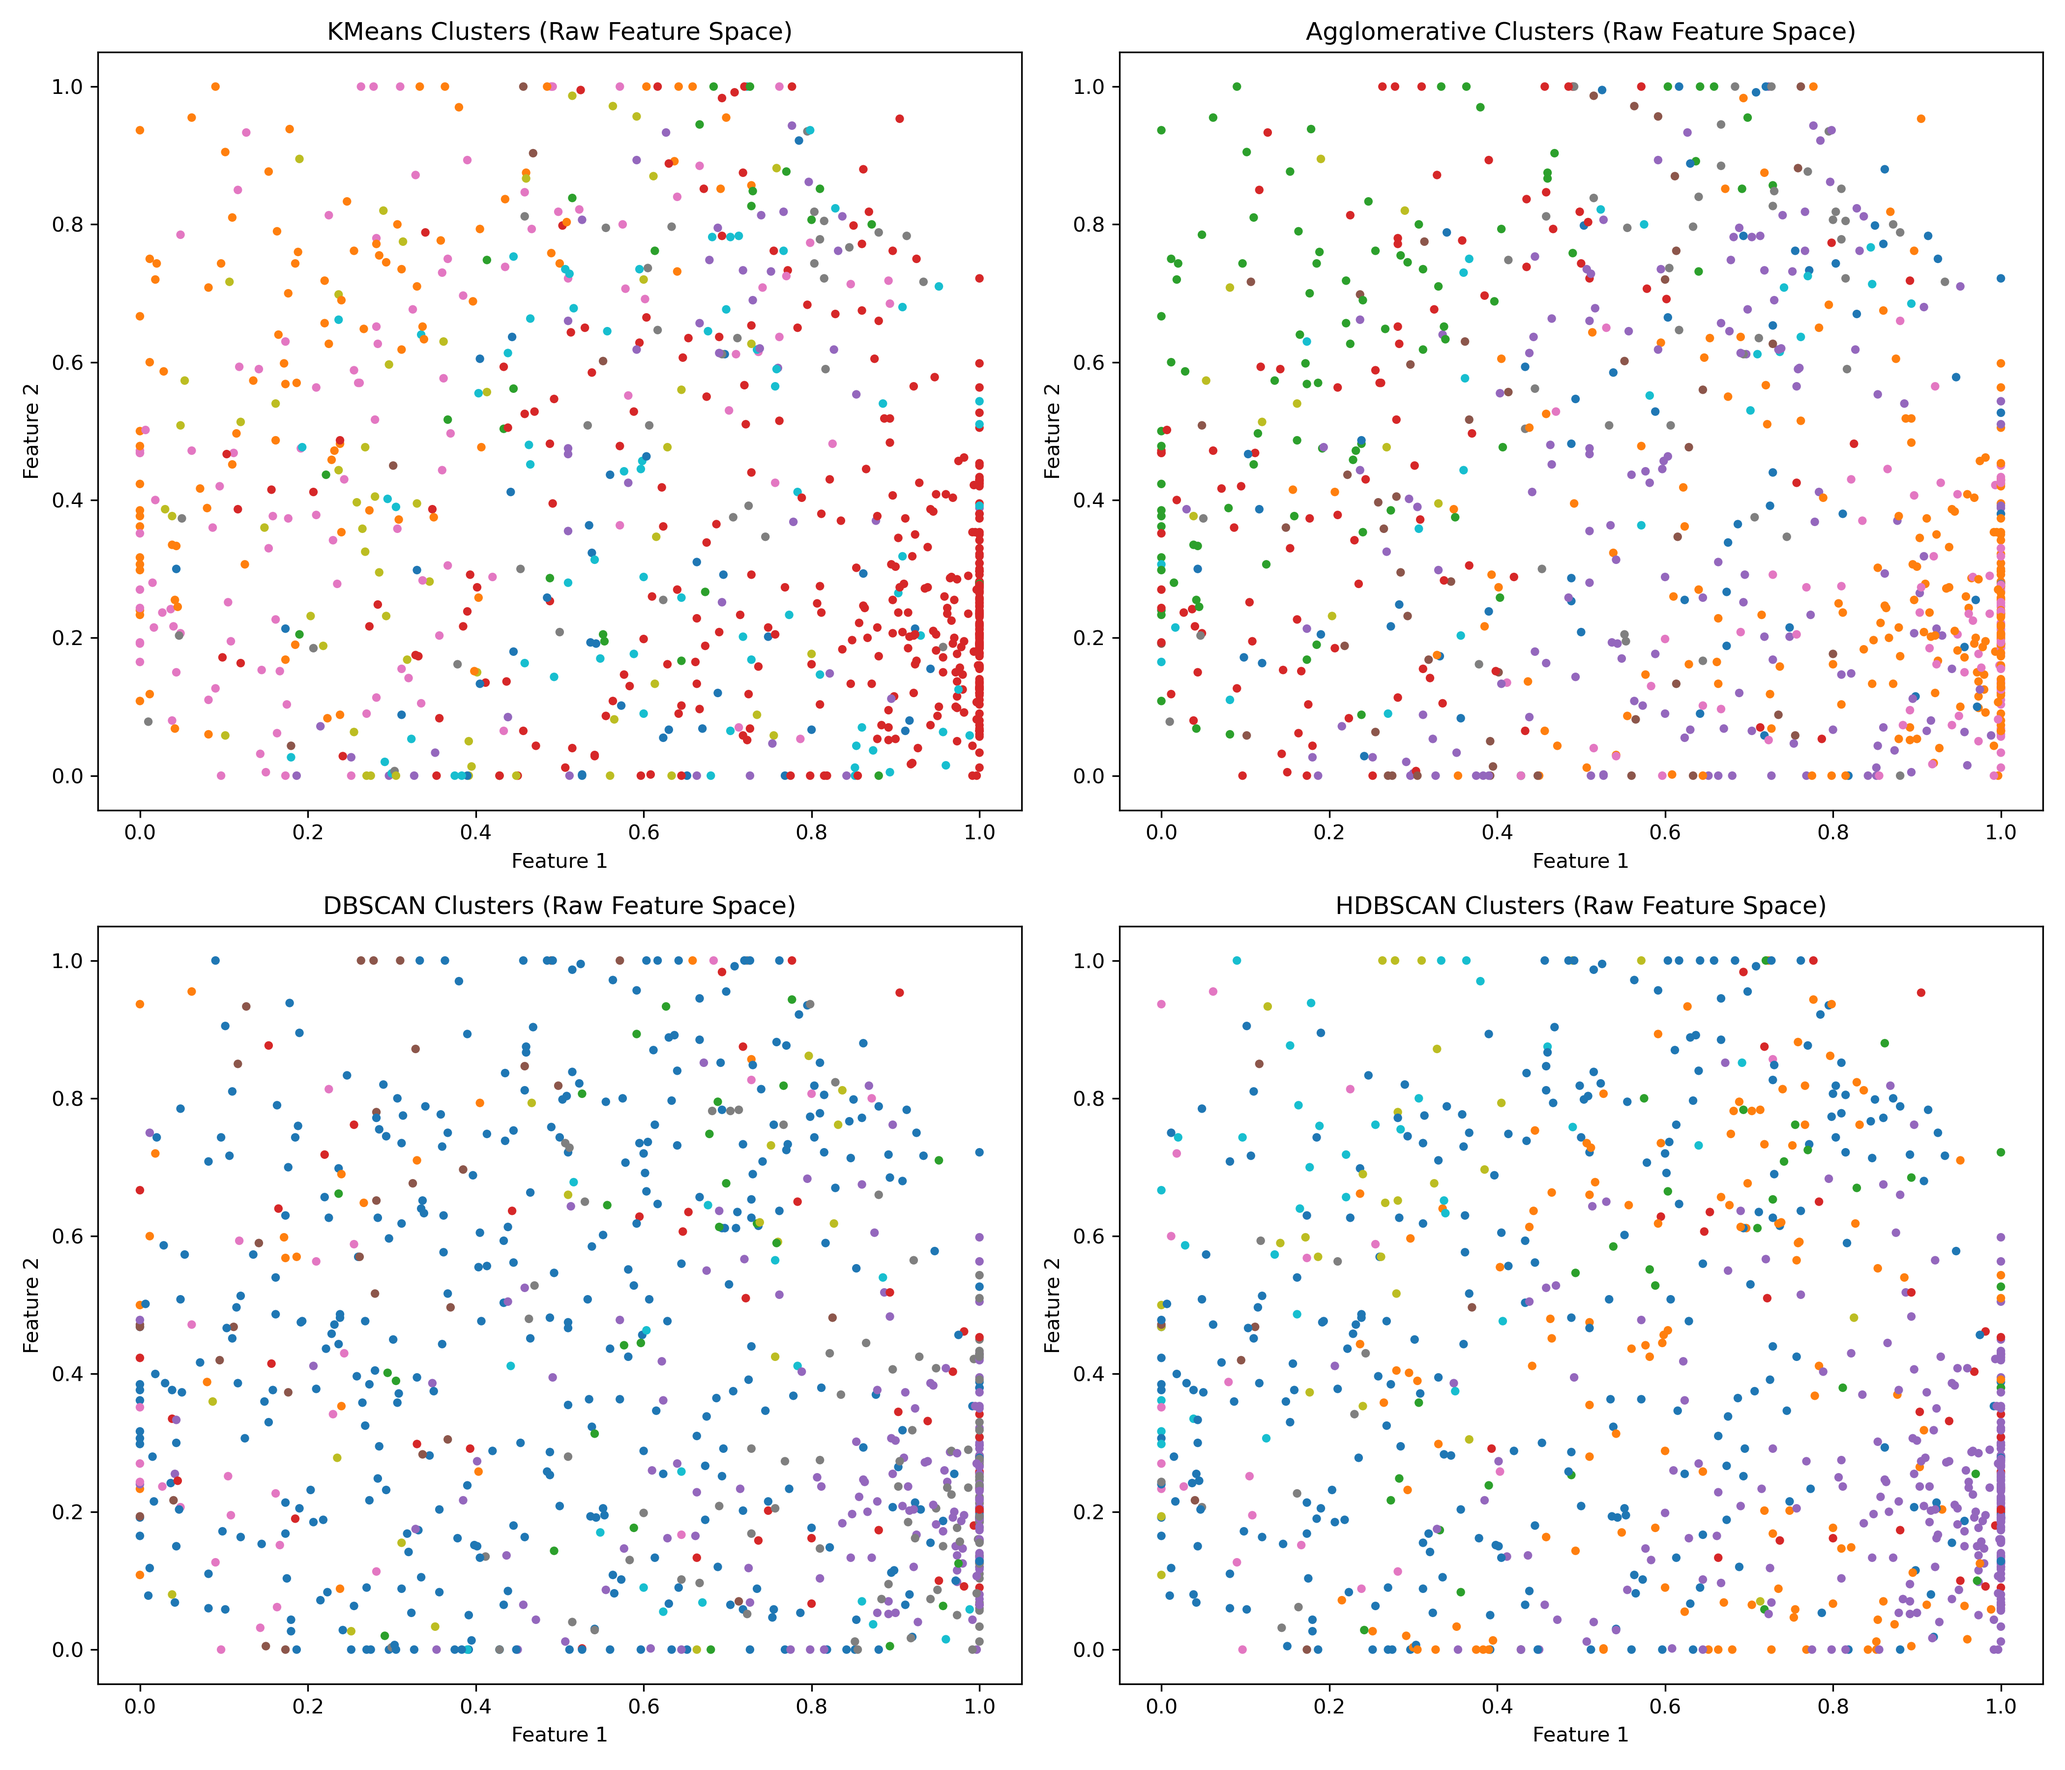
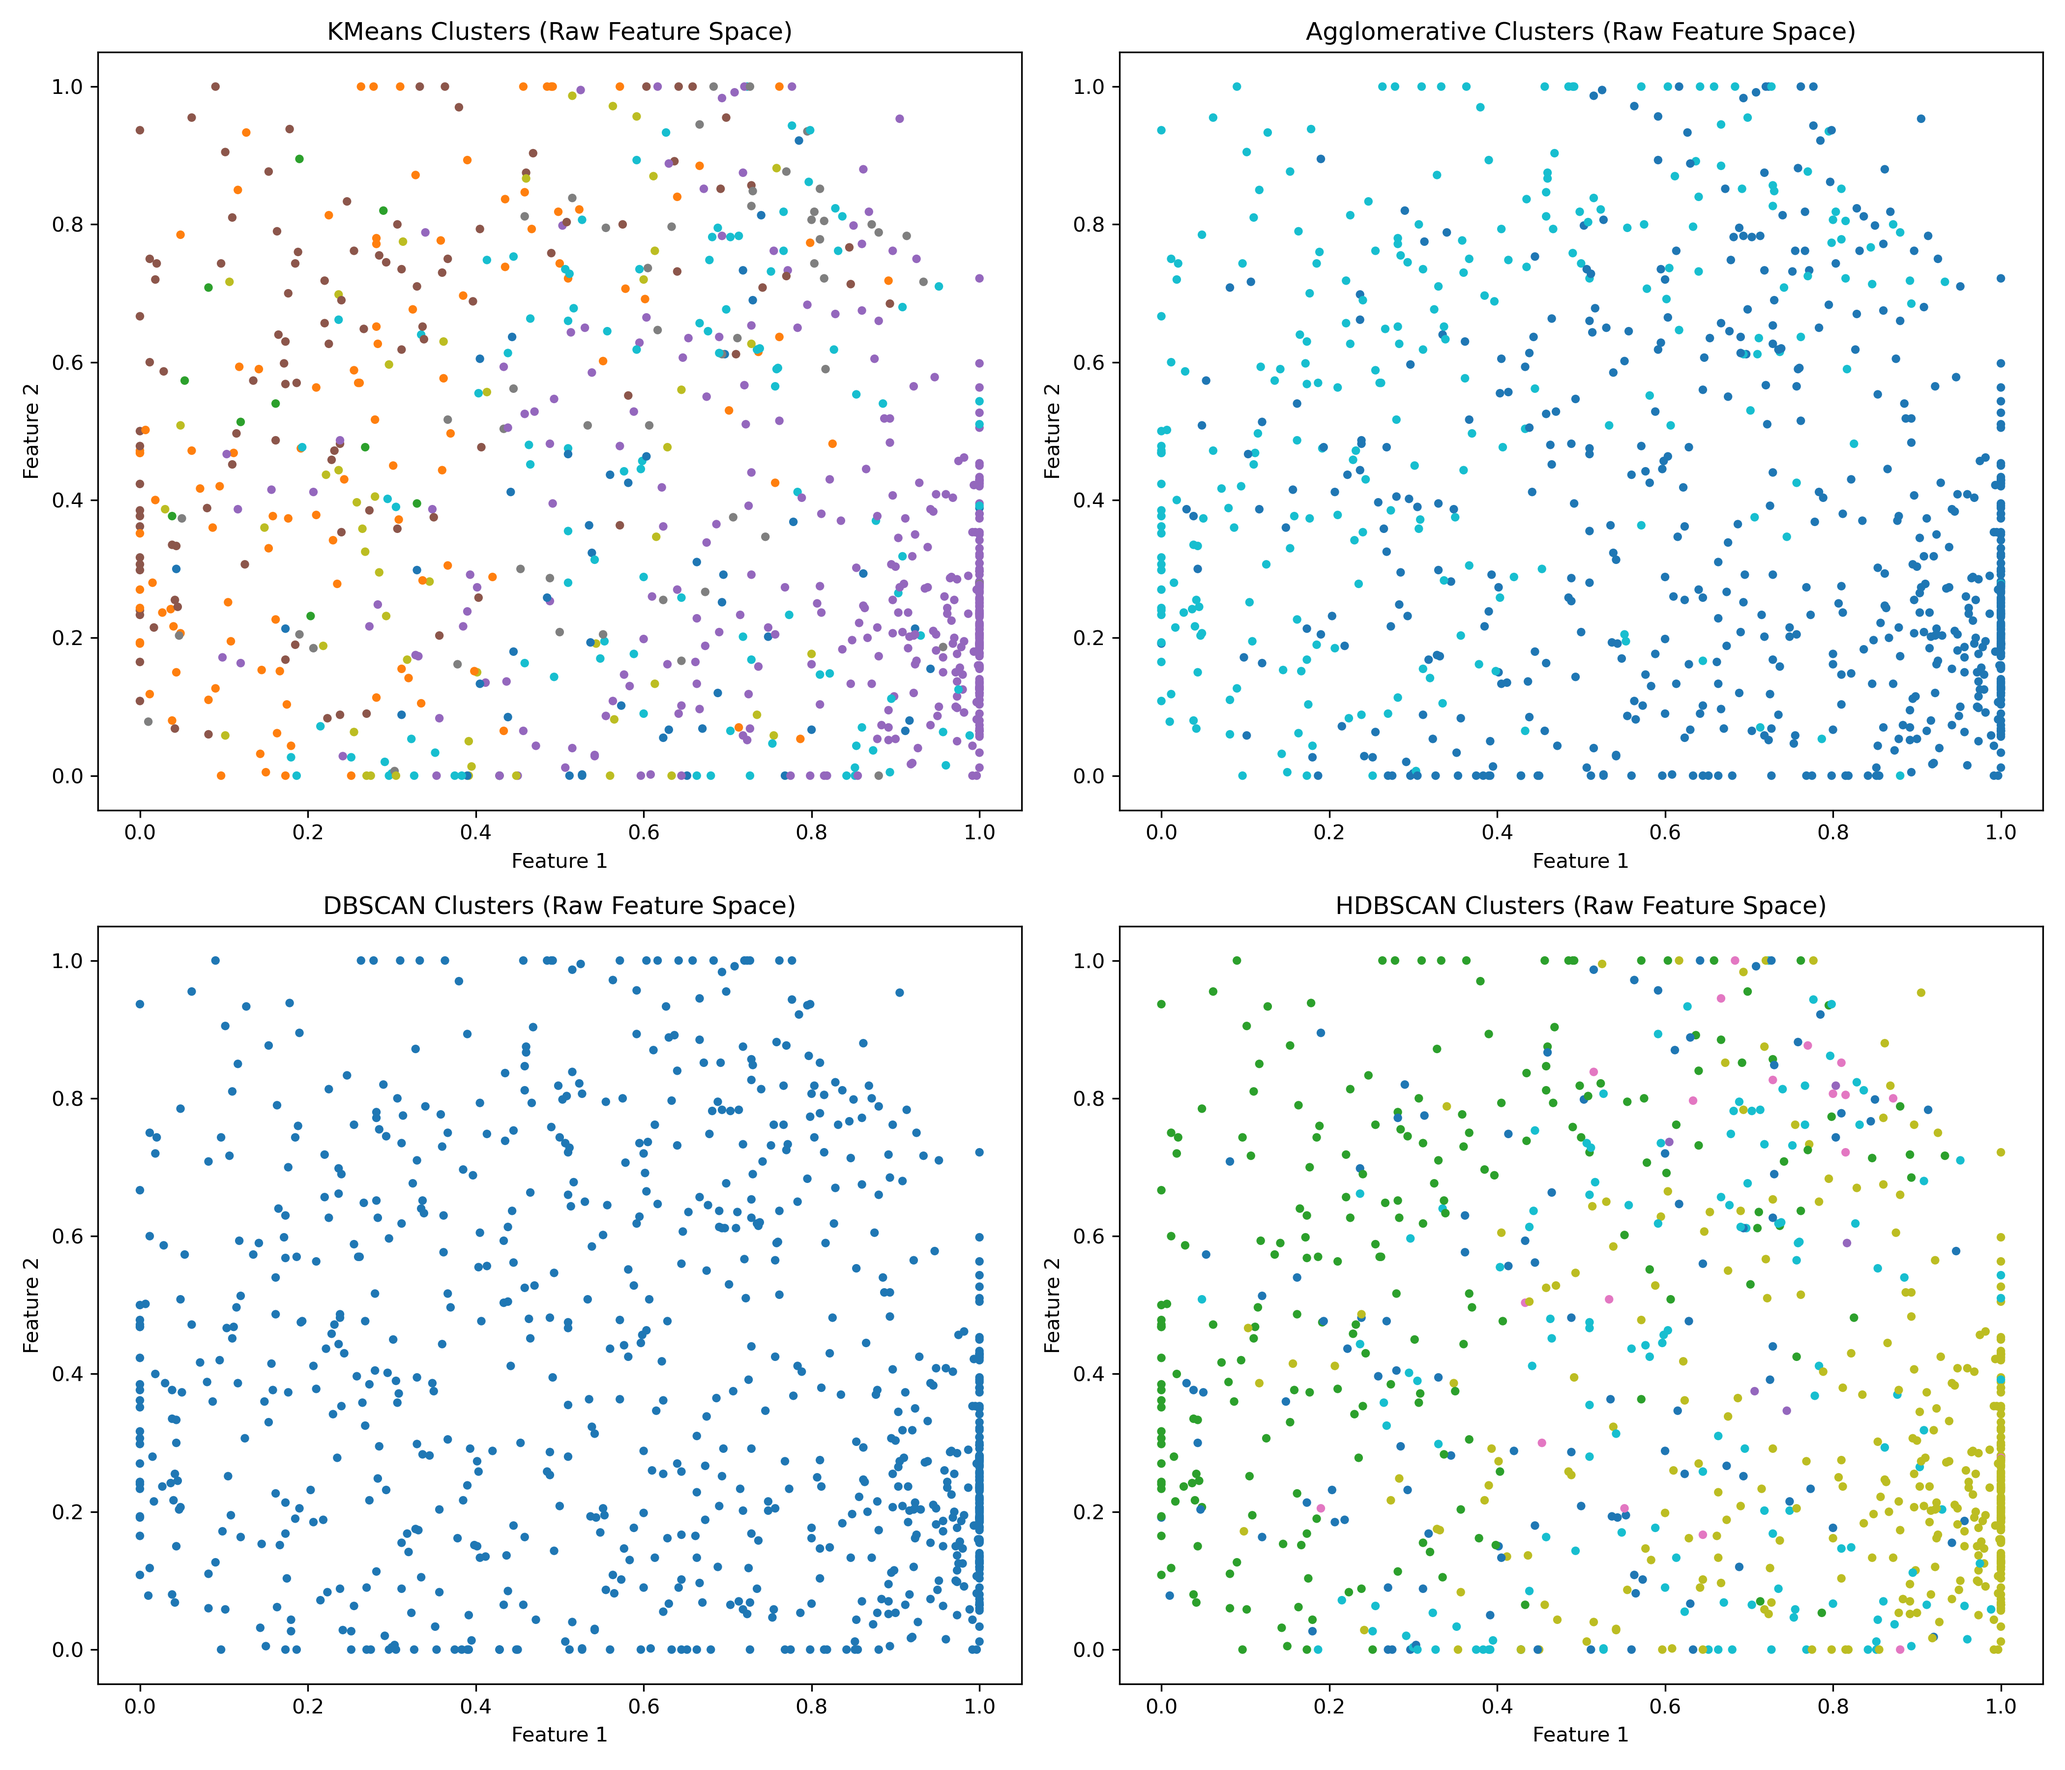
Evaluation and markups

diff --git a/recommender.py b/recommender.py
@@ -1,15 +1,16 @@
 import numpy as np
 import pandas as pd
 from sklearn.metrics.pairwise import cosine_similarity
-from sklearn.cluster import KMeans
-from sklearn.decomposition import TruncatedSVD
 
-job_profiles_and_abilities = pd.read_csv('data/job_profiles_and_abilities.csv')
+
+
 job_profiles_with_skills = pd.read_csv('data/job_profiles_with_skills.csv')
 
 
-def recommend_jobs(user_profile, job_profiles_and_abilities=job_profiles_and_abilities, top_n=5):
-  
+def recommend_jobs(user_profile, job_profiles_and_abilities, top_n=5):
+
+    job_profiles_and_abilities = pd.read_csv('data/job_profiles_and_abilities.csv')
+    
     """
     Recommends top N jobs based on user's RIASEC scores and education level.
     Filters jobs based on user's selected skills (matched against entries in Skill_1 to Skill_25),
@@ -87,15 +88,18 @@ def recommend_jobs(user_profile, job_profiles_and_abilities=job_profiles_and_abi
                                          'Education Level', 
                                           'Preparation Level',
                                             'Similarity Score',
-                                            'Normalized Education Score']].style.background_gradient(cmap='YlGn')
+                                            'Normalized Education Score']]
     
     # Returning the recommended jobs DataFrame
     
     return recommended_jobs
 
 
-def kmeans_svd_recommender(user_profile: dict, job_profile_with_skills=job_profiles_with_skills, n_clusters = 3, svd_components = 20, top_n: int = 5):
+def kmeans_svd_recommender(user_profile: dict, job_profile_with_skills=job_profiles_with_skills, n_clusters = 2, svd_components = 15, top_n: int = 5):
 
+    from sklearn.metrics.pairwise import cosine_similarity
+    from sklearn.cluster import KMeans
+    from sklearn.decomposition import TruncatedSVD
     """
     Recommends top N jobs based on user's RIASEC scores and education level and skills required.
     Takes in a Dataframe, reduces its dimensionality using Truncated SVD to retain 20 of the most important components.
@@ -114,7 +118,7 @@ def kmeans_svd_recommender(user_profile: dict, job_profile_with_skills=job_profi
 
     """
     # Extracting the RIASEC, Normalized Education score and the skill columns for machine learning
-    features = ['R', 'I', 'A', 'S', 'E', 'C', 'Normalized Education Score'] + job_profile_with_skills.columns[27:].tolist()
+    features = ['R', 'I', 'A', 'S', 'E', 'C', 'Normalized Education Score'] + job_profile_with_skills.columns[27:-1].tolist()
     X = job_profile_with_skills[features].fillna(0).values
     
     # Reducing the number of features to improve generalization
@@ -142,6 +146,62 @@ def kmeans_svd_recommender(user_profile: dict, job_profile_with_skills=job_profi
     # Sort values based on cosine similarity and displaying top 5 matches
     svd_top_jobs =svd_cluster_jobs.sort_values(by='Similarity Score', ascending=False).head(top_n)
     return svd_top_jobs[['Title', 'Description', 
+                                         'Education Category Label',
+                                         'Education Level', 
+                                          'Preparation Level',
+                                            'Similarity Score',
+                                            'Normalized Education Score']]
+
+
+def kmeans_pca_recommender(user_profile: dict, job_profile_with_skills=job_profiles_with_skills, n_clusters = 2, pca_components = 13, top_n: int = 5):
+    from sklearn.cluster import KMeans
+    from sklearn.decomposition import PCA
+    """
+    Recommends top N jobs based on user's RIASEC scores and education level and skills required.
+    Takes in a Dataframe, reduces its dimensionality using PCA to retain 13 of the most important components.
+    Clusters the data using K-Means Clustering then calculates cosine similarity of a user profile and the reduced Dataframe RIASEC + Education level
+    but does not use skills for cosine similarity.
+
+    Args:
+        user_profile (dict): Dictionary with keys 'R', 'I', 'A', 'S', 'E', 'C', 'education_level', and 'skills'.
+        job_profiles_and_abilities (pd.DataFrame): Job dataset containing RIASEC, education, and skill columns.
+        n_clusters (int) : The number of clusters to be instatiated in the KMeans.Optimized at 3(default)
+        svd_components (int): The number of features to be retained after in the truncated SVD algorithm
+        top_n (int, optional): Number of job recommendations to return. Defaults to 5.
+
+    Returns:
+        pd.DataFrame: DataFrame with top N recommended jobs sorted by similarity score.
+
+    """
+    # Extracting the RIASEC, Normalized Education score and the skill columns for machine learning
+    features = ['R', 'I', 'A', 'S', 'E', 'C', 'Normalized Education Score'] + job_profile_with_skills.columns[26:-1].tolist()
+    X = job_profile_with_skills[features].fillna(0).values
+    
+    # Reducing the number of features to improve generalization
+    pca= PCA(n_components=pca_components, random_state=42)
+    X_pca = pca.fit_transform(X)
+
+    #instatiating and fitting the model
+    model = KMeans(n_clusters=n_clusters, random_state=42)
+    labels = model.fit_predict(X_pca)
+    job_profile_with_skills['Cluster'] = labels #Creating a new column for the cluster assignments
+
+    user_vector_raw = np.array([
+        user_profile['R']/7, user_profile['I']/7, user_profile['A']/7,
+        user_profile['S']/7, user_profile['E']/7, user_profile['C']/7,
+        user_profile['education_level']/12
+    ] + [0] * (X.shape[1] - 7)).reshape(1, -1)
+    user_vector_reduced = pca.transform(user_vector_raw)    # Creating a new user profile similar to the TruncatedSVD array
+
+    # Predicting the User's Cluster assignment and Calculating cosine similarity to determine best job match
+    user_cluster = model.predict(user_vector_reduced)[0]
+    pca_cluster_jobs = job_profile_with_skills[job_profile_with_skills['Cluster'] == user_cluster].copy()
+    sim_scores = cosine_similarity(user_vector_reduced, pca.transform(pca_cluster_jobs[features].fillna(0).values)).flatten()
+    pca_cluster_jobs['Similarity Score'] = sim_scores
+    
+    # Sort values based on cosine similarity and displaying top 5 matches
+    pca_top_jobs =pca_cluster_jobs.sort_values(by='Similarity Score', ascending=False).head(top_n)
+    return pca_top_jobs[['Title', 'Description', 
                                          'Education Category Label',
                                          'Education Level', 
                                           'Preparation Level',
